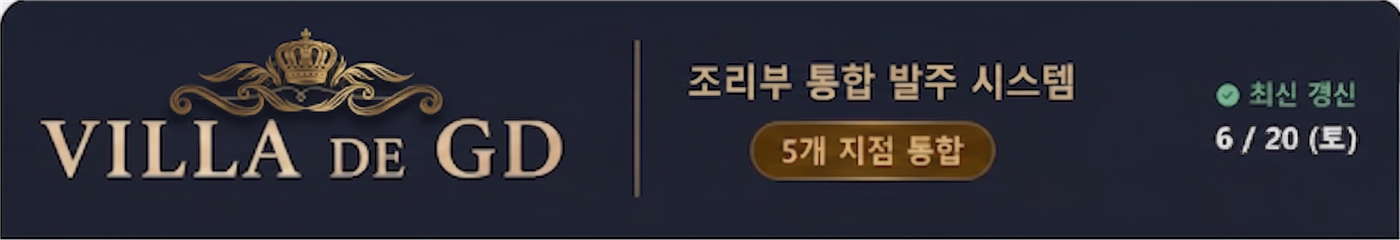
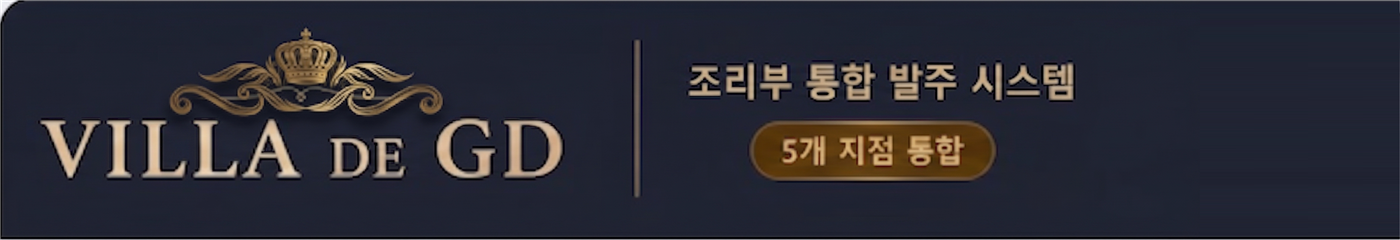
헤더 로고 이미지에서 날짜 제거 + 살아있는 날짜 글씨 오버레이(매주 자동갱신)

Changed region(s): [[0.86, 0.3208, 0.9829, 0.4667], [0.86, 0.525, 0.9829, 0.6417], [0.9829, 0.0, 1.0, 0.0583]]

diff --git a/index.html b/index.html
@@ -22,6 +22,11 @@
   body{font-family:"Malgun Gothic","맑은 고딕",-apple-system,sans-serif;background:#eef0f3;color:var(--ink);line-height:1.5;-webkit-font-smoothing:antialiased;padding:14px;}
   .wrap{max-width:640px;margin:0 auto;background:#fff;border-radius:16px;overflow:hidden;box-shadow:0 4px 24px rgba(0,0,0,.07);}
   .hdimg{display:block;width:100%;height:auto;}
+  .hdwrap{position:relative;line-height:0;}
+  .hddate{position:absolute;top:50%;right:4.5%;transform:translateY(-50%);text-align:right;line-height:1.25;}
+  .hddate .ck{display:flex;align-items:center;justify-content:flex-end;gap:4px;font-size:clamp(8px,1.9vw,11.5px);color:#7fd6a3;font-weight:700;}
+  .hddate .ck i{font-size:clamp(10px,2.2vw,14px);}
+  .hddate .dt{display:block;font-size:clamp(10px,2.6vw,15px);color:#fff;font-weight:700;margin-top:2px;letter-spacing:.5px;}
   .hd{background:var(--navy);padding:18px 20px;}
   .hd .row{display:flex;align-items:center;gap:12px;}
   .hd .ico{width:42px;height:42px;background:var(--navy2);border-radius:12px;display:flex;align-items:center;justify-content:center;color:var(--gold);font-size:24px;flex-shrink:0;}
@@ -99,7 +104,10 @@
 <body>
 <div class="wrap">
 
-  <img class="hdimg" src="header.png" alt="VILLA DE GD · 조리부 통합 발주 시스템 · 5개 지점">
+  <div class="hdwrap">
+    <img class="hdimg" src="header.png" alt="VILLA DE GD · 조리부 통합 발주 시스템 · 5개 지점">
+    <div class="hddate"><span class="ck"><i class="ti ti-circle-check-filled"></i> 최신 갱신</span><span class="dt">6 / 20 (토)</span></div>
+  </div>
 
 
   <div class="alert"><i class="ti ti-refresh"></i><div class="tx">받기 전에 꼭 「새로고침」하세요!<small>PC: Ctrl+Shift+R 누르기 · 휴대폰: 탭 닫고 다시 열기 — 항상 최신 발주서 확인</small></div></div>